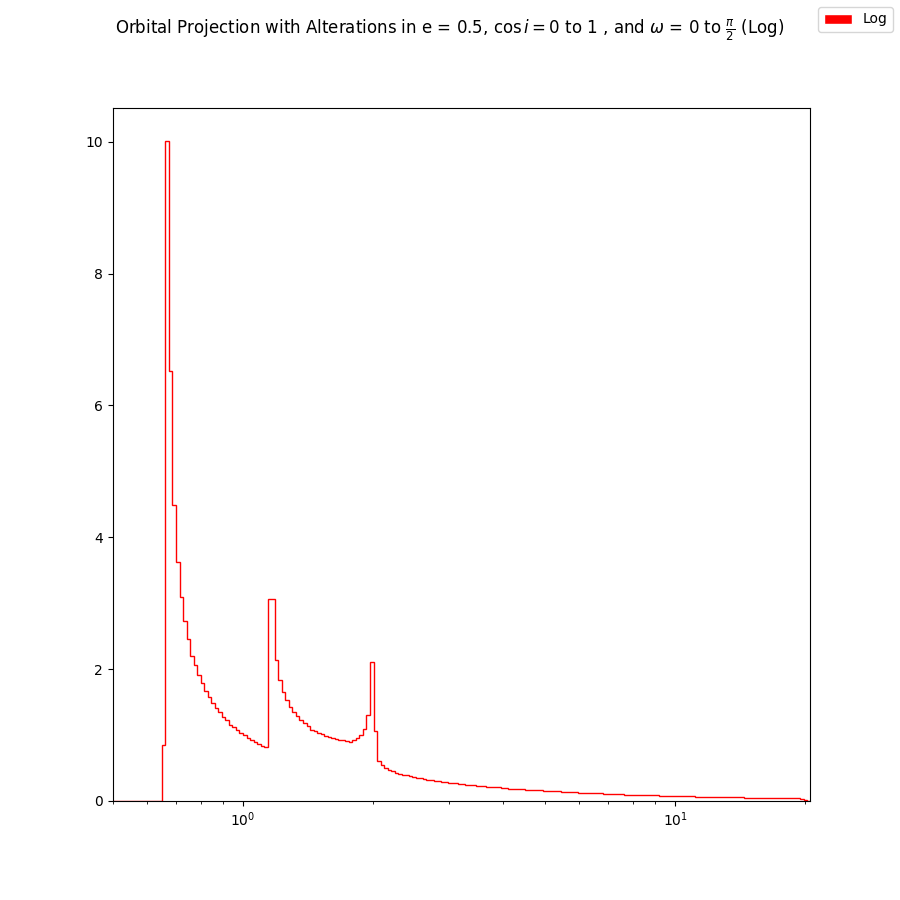
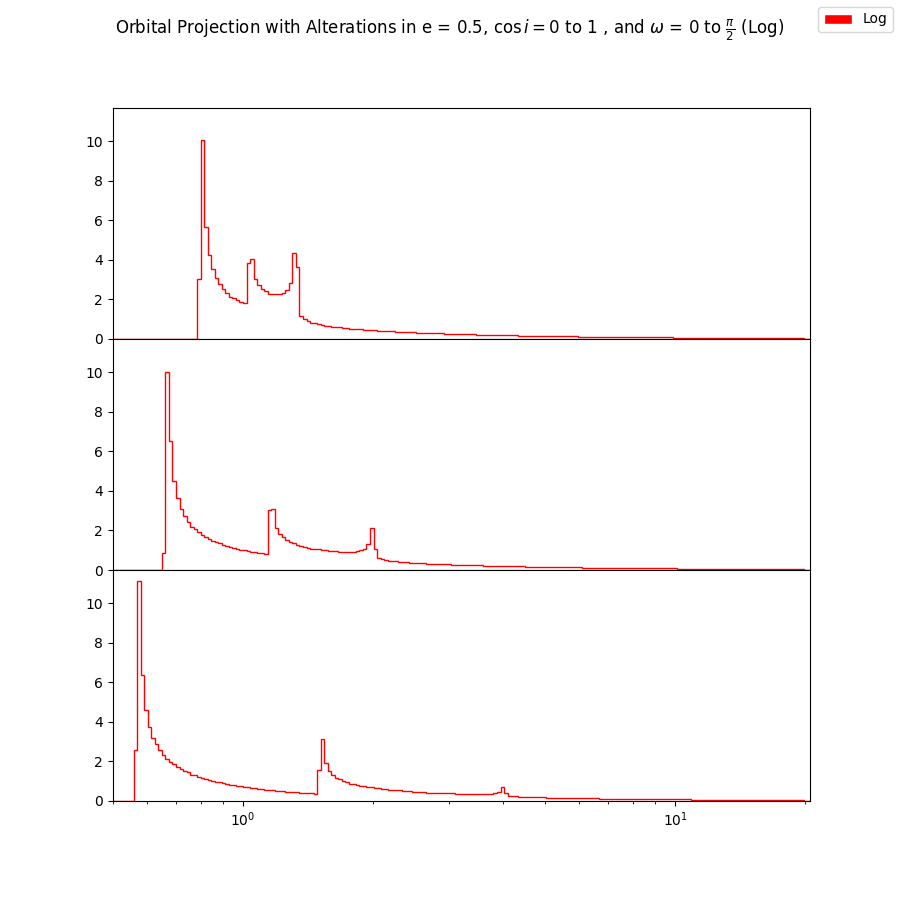
Made CompleteHist usable for 3 plots now, and plotted some marginalized inclines with it

diff --git a/Sep.py b/Sep.py
@@ -544,16 +544,16 @@ def DataHist(w = 0, step = 0.002, end = 10, Linearonly = False, inclination = Fa
     ]
     
     if inclination:
-        param = (0.5, istep, w, end, step, Linear, inclination)
+        param = [(0.25, istep, w, end, step, Linear, inclination), (0.50, istep, w, end, step, Linear, inclination), (0.75, istep, w, end, step, Linear, inclination)]
     
     
     start = time.perf_counter()
     # Multi Processing
-    if inclination == False:
-        with Pool(processes = 4) as pool:
-            totlist = pool.map(Rchange, param)
-    else:
-        totlist = Rchange(param)
+    # if inclination == False:
+    with Pool(processes = 3) as pool:
+        totlist = pool.map(Rchange, param)
+    # else:
+    #     totlist = Rchange(param)
     end_time = time.perf_counter()
     totaltime = end_time - start
     print(f"Time to Compute was {totaltime:.4f} seconds.")
@@ -852,7 +852,7 @@ def CompletePlotHist(w = 0, step = 0.002, end = 20, inclination = True):
     totlogdict = [{} for _ in range(12)]
     totlinlist = [[] for _ in range(12)]
     totloglist = [[] for _ in range(12)]
-    histlist = []
+    tothistlist = [[] for _ in range(3)]
     
     # Create variables for bin sizes
     nbin = 200
@@ -861,11 +861,14 @@ def CompletePlotHist(w = 0, step = 0.002, end = 20, inclination = True):
     # Make logbinsizes for all
     logbinsize = (np.log10(amin)-np.log10(amax))/nbin
     
+    logbins_lin = np.geomspace(amin,amax, nbin)
+    logbins_log = np.geomspace(amin,amax,nbin)
+    
     # For making the stepthrough of omega
-    wstep = np.linspace(0,np.pi/2,2)
+    wstep = np.linspace(0,np.pi/2,75)
     if inclination:
         # REMEMBER TO REMOVE IF STATMENTS FOR LINEAR (will eventually want linear in both)
-        cosstep = np.linspace(0,1,2)
+        cosstep = np.linspace(0,1,75)
         istep = np.arccos(cosstep)
     for i in wstep:
         print("Value of omega currently: ", i, " and current position in array: ", np.where(wstep == i))
@@ -894,9 +897,6 @@ def CompletePlotHist(w = 0, step = 0.002, end = 20, inclination = True):
                 # weights_lin = np.abs(np.ones_like(totliniter) / (len(totliniter) * logbinsize))    
                 weights_log = np.abs(np.ones_like(totloglist[j]) / (len(totloglist[j]) * logbinsize))  
             
-                # logbins_lin = np.geomspace(amin,amax, nbin)
-                logbins_log = np.geomspace(amin,amax,nbin)
-            
                 hist_log, histbins_log = np.histogram(totloglist[j],bins = logbins_log, range=(0.5, end+0.5))
             
                 # totliniter = dict(Counter(steplindict) + Counter(totliniter))
@@ -906,25 +906,27 @@ def CompletePlotHist(w = 0, step = 0.002, end = 20, inclination = True):
                 # totlindict[j] = totliniter 
                 # totlogdict[j] = totlogiter
             
-                histlist.append((hist_log, histbins_log))
+                # histlist.append((hist_log, histbins_log))
         else:
-                steplindict, x, y, steplogdict = steptotlist
-                totliniter = steplindict
-                totlogiter = steplogdict
-                # totlinlist = [key for key, val in totliniter.items() for _ in range(val)]
-                totloglist = [key for key, val in totlogiter.items() for _ in range(val)]
+                for j in range(len(steptotlist)):
+                    # steplindict, x, y, steplogdict = steptotlist
+                    steplindict, x, y, steplogdict = steptotlist[j]
+                    totliniter = steplindict
+                    totlogiter = steplogdict
+                    histlist = tothistlist[j]
+                    #totlinlist = [key for key, val in totliniter.items() for _ in range(val)]
+                    totloglist = [key for key, val in totlogiter.items() for _ in range(val)]
             
-                # Might not have to use this (MAKE SURE YOU DON'T HAVE TO USE IT)
-                # weights_lin = np.abs(np.ones_like(totliniter) / (len(totliniter) * logbinsize))    
-                # weights_log = np.abs(np.ones_like(totloglist) / (len(totloglist) * logbinsize))  
+                    # Might not have to use this (MAKE SURE YOU DON'T HAVE TO USE IT)
+                    # weights_lin = np.abs(np.ones_like(totliniter) / (len(totliniter) * logbinsize))    
+                    # weights_log = np.abs(np.ones_like(totloglist) / (len(totloglist) * logbinsize))  
             
-            
-                # logbins_lin = np.geomspace(amin,amax, nbin)
-                logbins_log = np.geomspace(amin,amax,nbin)
-            
-                hist_log, histbins_log = np.histogram(totloglist,bins = logbins_log, range=(0.5, end+0.5))
+
+                    hist_log, histbins_log = np.histogram(totloglist,bins = logbins_log, range=(0.5, end+0.5))
                 
-                histlist.append((hist_log, histbins_log))
+                    histlist.append((hist_log, histbins_log))
+                    
+                    tothistlist[j] = histlist
         gc.collect()
     
     # for j in range(12):
@@ -933,10 +935,10 @@ def CompletePlotHist(w = 0, step = 0.002, end = 20, inclination = True):
     #     totloglist[j] = [key for key, val in totlogdict[j].items() for _ in range(val)]
                 
     if inclination:
-        fig, axs = plt.subplots(1,1, figsize = (9,9), sharex=True,sharey=True,gridspec_kw=dict(hspace=0,wspace=0))
+        fig, axs = plt.subplots(3,1, figsize = (9,9), sharex=True,sharey=True,gridspec_kw=dict(hspace=0,wspace=0))
     else:
         fig, axs = plt.subplots(3,4, figsize = (9,9), sharex=True,sharey=True,gridspec_kw=dict(hspace=0,wspace=0))               
-    fig.suptitle("Orbital Projection with Alterations in e = 0.5, "r"$\cos{i} = 0$ to 1 , and " r"$\omega$ = $0$ to $\frac{\pi}{2}$ (Log)")
+    fig.suptitle("Orbital Projection with Alterations in e = 0.25-0.75, "r"$\cos{i} = 0$ to 1 , and " r"$\omega$ = $0$ to $\frac{\pi}{2}$ (Log)")
     # Iterates through each subplot in the 3x4 figure
     if inclination == False:
         for j, ax  in enumerate(axs.flatten()):
@@ -986,23 +988,25 @@ def CompletePlotHist(w = 0, step = 0.002, end = 20, inclination = True):
         ax.set_ylim(0,10)
         ax.set_xscale("log")
     else:
-        for val in range(len(histlist)):
-            hist, bins = histlist[val]
-            if val == 0:
-                tothist = np.zeros_like(hist)
-                tothist = tothist + hist
-            elif val == len(histlist)-1:
-                tothist = tothist + hist
-                norm = np.abs(1 / (logbinsize * np.sum(tothist)))
-                StepPatch = axs.stairs(tothist * norm, bins, edgecolor = "r", fill = False)
-            else:
-                tothist = tothist + hist
+        for j, ax  in enumerate(axs.flatten()):
+            histlist = tothistlist[j]
+            for val in range(len(histlist)):
+                hist, bins = histlist[val]
+                if val == 0:
+                    tothist = np.zeros_like(hist)
+                    tothist = tothist + hist
+                elif val == len(histlist)-1:
+                    tothist = tothist + hist
+                    norm = np.abs(1 / (logbinsize * np.sum(tothist)))
+                    StepPatch = ax.stairs(tothist * norm, bins, edgecolor = "r", fill = False)
+                else:
+                    tothist = tothist + hist
             
                 
-
-        axs.set_xlim(0.5,20.5)
+            ax.grid(True,color = "grey", linestyle="--", linewidth="0.25", axis = "x", which = "both")
+        ax.set_xlim(0.5,20.5)
         # axs.set_ylim(0,1)
-        axs.set_xscale("log")
+        ax.set_xscale("log")
         
     # Text for understanding positions of each figure 
     
@@ -1030,7 +1034,7 @@ def CompletePlotHist(w = 0, step = 0.002, end = 20, inclination = True):
     if inclination == False:
         plt.savefig('/College Projects/Microlensing Separation/Figures/CompleteHist_0002_LinLog.png')
     else:
-        plt.savefig('/College Projects/Microlensing Separation/Figures/CompleteHist_incline_2_0002_Log.png')
+        plt.savefig('/College Projects/Microlensing Separation/Figures/CompleteHist_3plots_incline_75_0002_Log.png')
     plt.show()
     return colorlist
     

diff --git a/example.py b/example.py
@@ -94,27 +94,32 @@ from collections import Counter
 # dict2 = Counter(dict1) + Counter(dict2)
 # print(dict(dict2))
 
-vel = np.arange(1,50,2)
-x = np.arange(1,50,2)
-y = np.zeros_like(x)
-y2 = np.ones_like(x) * -0.005
-velmin = vel.min()
-velmax = vel.max()
-num = np.subtract(np.abs(vel) , np.abs(velmin))
-denom = np.abs(velmax) - np.abs(velmin)
-ratio =  (40.0 - (np.divide(num,denom)) * 39.0)
+# vel = np.arange(1,50,2)
+# x = np.arange(1,50,2)
+# y = np.zeros_like(x)
+# y2 = np.ones_like(x) * -0.005
+# velmin = vel.min()
+# velmax = vel.max()
+# num = np.subtract(np.abs(vel) , np.abs(velmin))
+# denom = np.abs(velmax) - np.abs(velmin)
+# ratio =  (40.0 - (np.divide(num,denom)) * 39.0)
 
-plt.figure(figsize=(10,6))
-plt.scatter(x, y, s = ratio, label = "Dot Size")
-plt.scatter(x, y2, s = vel, label = "Vel")
-plt.title("Dot Size Formula")
-plt.text(45,0.01,s = "Min Dot")
-plt.text(-2,0.01,s="Max Dot")
-plt.text(45,-0.02,s = "Max Vel")
-plt.text(-2,-0.02,s="Min Vel")
-plt.xlim(-5,55)
-plt.yticks([])
-plt.ylim(-0.1,0.1)
-plt.legend()
-plt.savefig('/College Projects/Microlensing Separation/Figures/DotSize.png')
-plt.show()
+# plt.figure(figsize=(10,6))
+# plt.scatter(x, y, s = ratio, label = "Dot Size")
+# plt.scatter(x, y2, s = vel, label = "Vel")
+# plt.title("Dot Size Formula")
+# plt.text(45,0.01,s = "Min Dot")
+# plt.text(-2,0.01,s="Max Dot")
+# plt.text(45,-0.02,s = "Max Vel")
+# plt.text(-2,-0.02,s="Min Vel")
+# plt.xlim(-5,55)
+# plt.yticks([])
+# plt.ylim(-0.1,0.1)
+# plt.legend()
+# plt.savefig('/College Projects/Microlensing Separation/Figures/DotSize.png')
+# plt.show()
+wstep = np.linspace(0,np.pi/2,10)
+cosstep = np.linspace(0,1,10)
+istep = np.arccos(cosstep)
+print("Steps in omega: " , wstep)
+print("Steps in i: ", istep)
